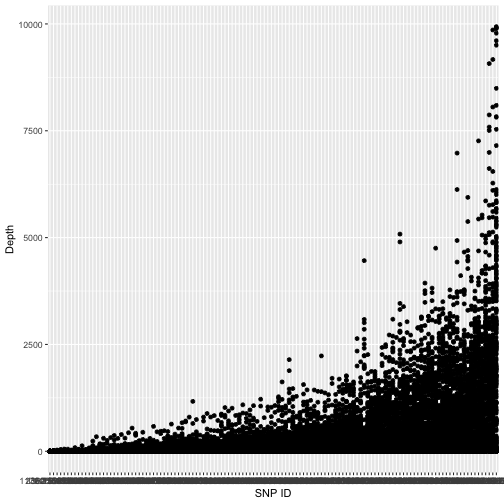
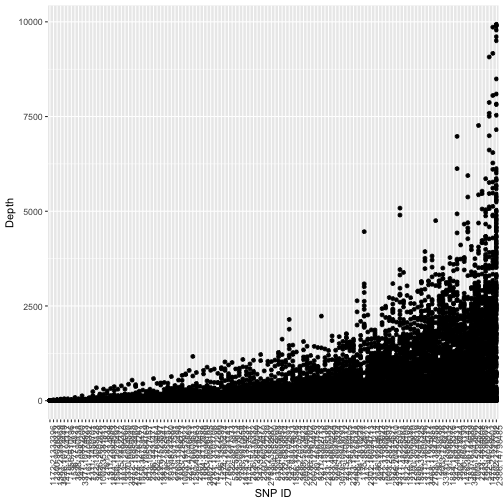
Update markdown doc.

diff --git a/fragment_size.md b/fragment_size.md
@@ -82,6 +82,45 @@ vcf <- left_join(vcf, metadata)
 ## Joining, by = "sample"
 ```
 
+```r
+pchar <- read_tsv('pchar.tsv')
+```
+
+```
+## Parsed with column specification:
+## cols(
+##   chrom = col_double(),
+##   start = col_double(),
+##   stop = col_double(),
+##   amplicon_snp_position = col_double(),
+##   l_start = col_double(),
+##   r_start = col_double(),
+##   l_length = col_double(),
+##   r_length = col_double(),
+##   amplicon_size = col_double(),
+##   f_seq = col_character(),
+##   r_seq = col_character(),
+##   amplicon = col_character(),
+##   template = col_character(),
+##   f_gc_clamp = col_logical(),
+##   r_gc_clamp = col_logical(),
+##   f_gc_3prime = col_logical(),
+##   r_gc_3prime = col_logical()
+## )
+```
+
+```r
+pchar$start <- as.integer(pchar$start)
+pchar$name <- paste(pchar$chrom, pchar$start, sep = ':')
+pchar <- pchar %>% select(snp_id = name, f_gc_clamp, r_gc_clamp, f_gc_3prime, r_gc_3prime, f_seq, r_seq) %>% distinct()
+pchar <- pchar %>% mutate(gc_clamp = f_gc_clamp & r_gc_clamp, gc_3prime = f_gc_3prime, r_gc_3prime)
+vcf <- left_join(vcf, pchar)
+```
+
+```
+## Joining, by = "snp_id"
+```
+
 
 Generate some variables, and group data by snp_id.
 
@@ -89,7 +128,10 @@ Generate some variables, and group data by snp_id.
 ```r
 # Separate allele depth & genotype likelihoods
 
-vcf <- vcf %>% separate(AD, c("AD1", "AD2"), ",", convert = TRUE, remove = FALSE) %>% separate(PL, c("pl00", "pl01", "pl11"), convert = TRUE, remove = FALSE)
+vcf <- vcf %>% separate(GT, c("GT1", "GT2"), "/", convert = TRUE, remove = FALSE) %>%
+  separate(AD, c("AD1", "AD2"), ",", convert = TRUE, remove = FALSE) %>%
+	separate(PL, c("pl00", "pl01", "pl11"), convert = TRUE, remove = FALSE) %>%
+	rowwise() %>% mutate(gt = sum(GT1, GT2))
 ```
 
 ```
@@ -109,10 +151,11 @@ likelihood_ratio <- function(x) {
 
 vcf <- vcf %>% rowwise() %>% mutate(lr = likelihood_ratio(c(pl00,pl01,pl11)))
 
+vcf$called <- vcf$GQ > 20
 # Group by snp_id, calc snp-level variables.
 
 snp_data <- vcf %>% 
-  group_by(snp_id, CHROM, REF, ALT, template_size, pcr1_product, pcr2_product) %>% 
+  group_by(snp_id, CHROM, REF, ALT, template_size, pcr1_product, pcr2_product, gc_clamp, gc_3prime, f_gc_clamp, r_gc_clamp, f_gc_3prime, r_gc_3prime) %>% 
   summarize(n_called = sum(called), n = n(), call_rate = n_called/n, AD1 = sum(AD1),
 	          AD2 = sum(AD2), totalDP = sum(DP), meanDP = mean(DP), medianDP = median(DP),
 						paa = sum(gt == 0) / n(), pAa = sum(gt == 1) / n(), pAA = sum(gt == 2) / n())
@@ -120,10 +163,6 @@ snp_data <- vcf %>%
 
 ```
 ## Warning: Grouping rowwise data frame strips rowwise nature
-```
-
-```
-## Error: object 'called' not found
 ```
 
 ```r
@@ -163,36 +202,32 @@ sample_data <- vcf %>% group_by(sample, type, dna, Year, region, run_id) %>% sum
 ## Warning: Grouping rowwise data frame strips rowwise nature
 ```
 
-```
-## Error: object 'called' not found
-```
-
 ```r
 sample_data <- sample_data %>% group_by(run_id) %>% mutate(totalRunDP = sum(totalDP)) %>% mutate(scaledDP = totalDP / totalRunDP)
 ```
 
-SNP Depth
+## Figure 1. SNP Depth
+
 
 
 ```r
 vcf$SNPID <- factor(vcf$snp_id, levels = snp_data$snp_id[order(snp_data$meanDP)])
-ggplot(vcf, aes(x = SNPID, y = DP)) + geom_point() + xlab("SNP ID") + ylab("Depth")
+ggplot(vcf, aes(x = SNPID, y = DP)) + geom_point() + xlab("SNP ID") + ylab("Depth") + theme(axis.text.x = element_text(angle = 90, hjust = 1))
 ```
 
 ![plot of chunk unnamed-chunk-3](figure/unnamed-chunk-3-1.png)
 
-SNP Mean Depth
+## Figure 2. SNP Mean Depth
 
 
 ```r
 snp_data$SNPID <- factor(snp_data$snp_id, levels = snp_data$snp_id[order(snp_data$meanDP)])
-ggplot(snp_data, aes(x = SNPID, y = meanDP)) + geom_point() + xlab("SNP ID") + ylab("Mean Depth")
+ggplot(snp_data, aes(x = SNPID, y = meanDP)) + geom_point() + xlab("SNP ID") + ylab("Mean Depth") + theme(axis.text.x = element_text(angle = 90, hjust = 1))
 ```
 
 ![plot of chunk unnamed-chunk-4](figure/unnamed-chunk-4-1.png)
 
-
-Minor allele frequency histogram
+## Figure 3. Minor allele frequency histogram
 
 
 ```r
@@ -201,20 +236,33 @@ ggplot(snp_data, aes(x = maf)) + geom_histogram(bins = 20)
 
 ![plot of chunk unnamed-chunk-5](figure/unnamed-chunk-5-1.png)
 
-Genotype frequencies
+## Figure 4. Genotype frequencies
 
 
 ```r
+p <- seq(0,1,length.out = nrow(snp_data))
+q <- 1-p
+pq = (1-(p^2)-(q^2))/2
+
+aa = p^2
+AA = q^2
+Aa = 2*pq
+
 cbPalette <- c("#999999", "#E69F00", "#56B4E9", "#009E73", "#F0E442", "#0072B2", "#D55E00", "#CC79A7")
 
-ggplot(snp_data, aes(x = af)) + geom_point(aes(y = paa), color = cbPalette[1]) + geom_point(aes(y = pAa), color = cbPalette[2]) + geom_point(aes(y = pAA), color = cbPalette[3]) + xlab("Allele a frequency") + ylab("Genotype frequency")
+ggplot(snp_data, aes(x = af)) + 
+  geom_point(aes(y = paa), color = cbPalette[1]) + 
+	geom_line(aes(x = p, y = aa), color = cbPalette[1]) +
+	geom_point(aes(y = pAa), color = cbPalette[2]) + 
+	geom_line(aes(x = p, y = Aa), color = cbPalette[2]) +
+	geom_point(aes(y = pAA), color = cbPalette[3]) + 
+	geom_line(aes(x = p, y = AA), color = cbPalette[3]) +
+	xlab("Allele a frequency") + ylab("Genotype frequency")
 ```
 
 ![plot of chunk unnamed-chunk-6](figure/unnamed-chunk-6-1.png)
 
-
-
-Call rate x heterozygosity rate
+## Figure 5. Call rate x heterozygosity rate
 
 
 ```r
@@ -229,8 +277,7 @@ ggplot(snp_data, aes(x = maf, y = call_rate)) + geom_point()
 
 ![plot of chunk unnamed-chunk-7](figure/unnamed-chunk-7-2.png)
 
-
-Call rate x pcr product size
+## Figure 6. Call rate x pcr product size
 
 
 ```r
@@ -244,7 +291,7 @@ ggplot(snp_data, aes(x = pcr1_product, y = call_rate)) + geom_point() + geom_smo
 ![plot of chunk unnamed-chunk-8](figure/unnamed-chunk-8-1.png)
 
 
-PCR product size x mean depth
+## Figure 7. PCR product size x Mean depth
 
 
 ```r
@@ -254,7 +301,7 @@ ggplot(snp_data, aes(x = pcr1_product, y = meanDP)) + geom_point() + ylab("Mean 
 ![plot of chunk unnamed-chunk-9](figure/unnamed-chunk-9-1.png)
 
 
-Call rate x mean depth
+## Figure 8. Mean depth x Call rate
 
 
 ```r
@@ -264,14 +311,78 @@ ggplot(snp_data, aes(x = meanDP, y = call_rate)) + geom_point() + xlab("Mean dep
 ![plot of chunk unnamed-chunk-10](figure/unnamed-chunk-10-1.png)
 
 
-Call rate x sample type
+## Figure 9. Sample type x Call rate
 
 
 ```r
-ggplot(vcf, aes(x = type, y = DP)) + geom_boxplot()
+ggplot(sample_data, aes(x = type, y = call_rate)) + geom_boxplot()
 ```
 
 ![plot of chunk unnamed-chunk-11](figure/unnamed-chunk-11-1.png)
+
+
+## Figure 10 a,b,c. GC Clamp x Call rate
+
+GC clamp = TRUE if 2 or fewer GC bases in 3 prime end.
+
+
+>    Returns True if fewer than 2 G or C nucleotides are within the last 5 bases.
+>    #Oligonucleotides with more than three G or C nucleotides within the last  five bases were  filtered.  This should help minimize mispriming at GC-rich binding sites
+>    # http://www.bio.net/mm/methods/2000-August/084438.html
+
+
+
+```r
+ggplot(snp_data, aes(x = gc_clamp, y = call_rate)) + geom_boxplot() + ggtitle("GC Clamp")
+```
+
+![plot of chunk unnamed-chunk-12](figure/unnamed-chunk-12-1.png)
+
+```r
+ggplot(snp_data, aes(x = f_gc_clamp, y = call_rate)) + geom_boxplot() + ggtitle("Forward GC Clamp")
+```
+
+![plot of chunk unnamed-chunk-12](figure/unnamed-chunk-12-2.png)
+
+```r
+ggplot(snp_data, aes(x = r_gc_clamp, y = call_rate)) + geom_boxplot() + ggtitle("Reverse GC Clamp")
+```
+
+![plot of chunk unnamed-chunk-12](figure/unnamed-chunk-12-3.png)
+
+
+## Figure 11 a,b,c. GC 3prime x Call rate
+
+TRUE if GC is last base at 3prime end.
+
+>    Rationale:
+>    For primers, a single G or C nucleotide at the 3'-end helps to stabilize
+>    binding near the site of extension, which can reduce the possibility of
+>    "breathing" and improves priming efficiency.  terefore, primers ending
+>    in an A or a T base could optionally be  altered. In this study, the 
+>    filter was applied. [Francis et al. 2017 - ThermoAlign: a genome-aware
+>    primer design tool for tiled amplicon resequencing]
+>    http://www.bio.net/mm/methods/2000-August/084438.html
+
+
+
+```r
+ggplot(snp_data, aes(x = gc_3prime, y = call_rate)) + geom_boxplot() + ggtitle("GC 3prime")
+```
+
+![plot of chunk unnamed-chunk-13](figure/unnamed-chunk-13-1.png)
+
+```r
+ggplot(snp_data, aes(x = f_gc_3prime, y = call_rate)) + geom_boxplot() + ggtitle("Forward GC 3prime")
+```
+
+![plot of chunk unnamed-chunk-13](figure/unnamed-chunk-13-2.png)
+
+```r
+ggplot(snp_data, aes(x = r_gc_3prime, y = call_rate)) + geom_boxplot() + ggtitle("Reverse GC 3prime")
+```
+
+![plot of chunk unnamed-chunk-13](figure/unnamed-chunk-13-3.png)
 
 
 
